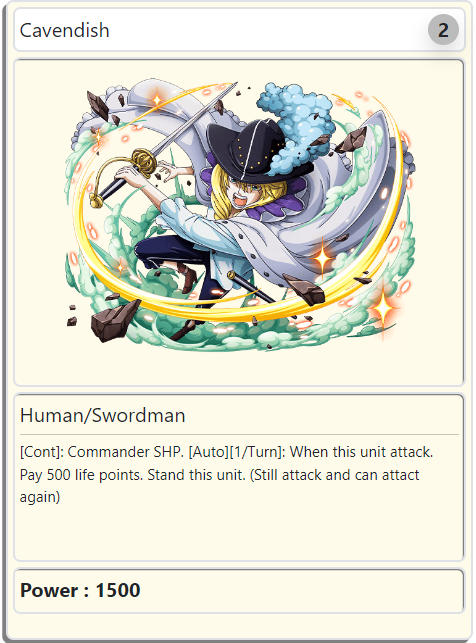
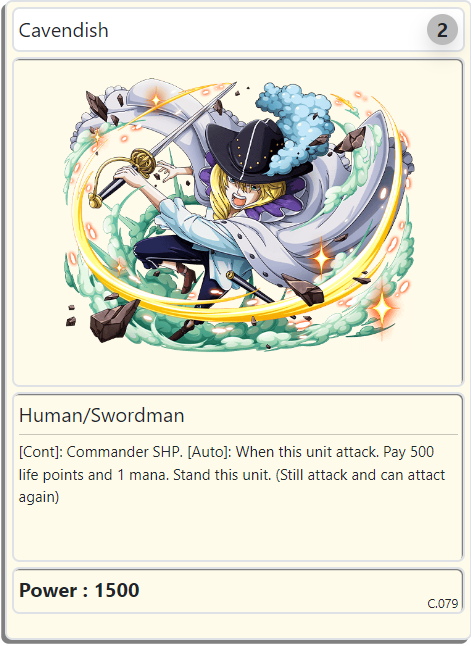
C080

Changed region(s): [[0.0, 0.0, 1.0, 1.0], [0.1189, 0.1244, 0.8917, 0.5599]]

diff --git a/src/views/arena/new-arena/index.vue b/src/views/arena/new-arena/index.vue
@@ -715,7 +715,8 @@ export default {
         data.unit.card.code === '062' ||
         data.unit.card.code === '071' ||
         data.unit.card.code === '072' ||
-        data.unit.card.code === '073'
+        data.unit.card.code === '073' ||
+        data.unit.card.code === '080'
       ) {
         data.option.act = 'ACT'
       }
@@ -1458,6 +1459,9 @@ export default {
           data.index = cards[index]
           this.callFromDeck(data)
         }
+        if (data.todo === 'DECK TO HAND') {
+          this.DECK_TO_HAND({ who: data.who, index: cards[index] })
+        }
       }
     },
     SEARCH_DECK_FOR_GRADE_AND_NOT_NAME (data) {
@@ -2010,6 +2014,8 @@ export default {
         this.EFF061(data)
       } else if (data.unitATK.card.code === '070') {
         this.EFF070(data)
+      } else if (data.unitATK.card.code === '079') {
+        this.EFF079(data)
       } else {
         setTimeout(() => this.unitBlock(data), 1000)
       }
@@ -2320,6 +2326,7 @@ export default {
         if (data.unit.card.code === '071') { this.EFF071_ACT(data) }
         if (data.unit.card.code === '072') { this.EFF072_ACT(data) }
         if (data.unit.card.code === '073') { this.EFF073_ACT(data) }
+        if (data.unit.card.code === '080') { this.EFF080(data) }
         data.unit.onePerTurn = true
       }
     },
@@ -4428,6 +4435,44 @@ export default {
         this.COST(data)
       } else {
         this.bind(data)
+      }
+    },
+    EFF079 (data) { // Cavendish
+      if (data.who === 'player') {
+        data.mana = this.data.player.mana.use
+      } else {
+        data.mana = this.data.opponent.mana.use
+      }
+      if (data.mana > 0) {
+        if (data.who === 'player') {
+          this.data.player.mana.use -= 1
+        } else {
+          this.data.opponent.mana.use -= 1
+        }
+        data.cost = 'pay life'
+        data.pay = 500
+        this.COST(data)
+        setTimeout(() => this.stand(data), 1000)
+        setTimeout(() => this.unitBlock(data), 1000)
+      } else {
+        setTimeout(() => this.unitBlock(data), 1000)
+      }
+    },
+    EFF080 (data) { // Bartolomeo
+      if (data.who === 'player') {
+        data.hand = this.data.player.hand
+      } else {
+        data.hand = this.data.opponent.hand
+      }
+      if (data.hand.length > 0) {
+        data.cost = 'discard'
+        data.discard = ''
+        this.COST(data)
+        data.name = 'Monkey D. Luffy'
+        data.todo = 'DECK TO HAND'
+        this.SEARCH_DECK_FOR_NAME(data)
+      } else {
+        this.Toast('error', 'Tidak ada kartu untuk discard !!!')
       }
     }
   },

diff --git a/src/views/index.vue b/src/views/index.vue
@@ -3319,6 +3319,7 @@ export default {
                 special: ''
               },
               text: '[Cont]: Commander SHP. [Act][1/Turn]: Pay 500 life points. All your grade 2 unit get Power + 1000 until end this turn.',
+              // text: '[Cont]: Commander SHP. [Act][1/Turn]: Pay 500 life points. All your grade 2 unit get Power + 1000 until end this turn.',
               power: 1500,
               code: '081'
             },
@@ -3332,7 +3333,7 @@ export default {
                 job: 'Fighter',
                 special: 'Paramecia'
               },
-              text: '[Cont]: Commander SHP. [Act][1/Turn]: Choose up to one your unit. That unit cannot be destroy until end this turn.',
+              text: '[Cont]: Commander SHP. [Act][1/Turn]: Discard a random card from your hand. Put up to one "Monkey D. Luffy" from deck into your hand. Shuffle your deck.',
               power: 1500,
               code: '080'
             },
@@ -3346,7 +3347,7 @@ export default {
                 job: 'Swordman',
                 special: ''
               },
-              text: '[Cont]: Commander SHP. [Auto][1/Turn]: When this unit attack. Pay 500 life points. Stand this unit. (Still attack and can attact again)',
+              text: '[Cont]: Commander SHP. [Auto]: When this unit attack. Pay 500 life points and 1 mana. Stand this unit. (Still attack and can attact again)',
               power: 1500,
               code: '079'
             },
